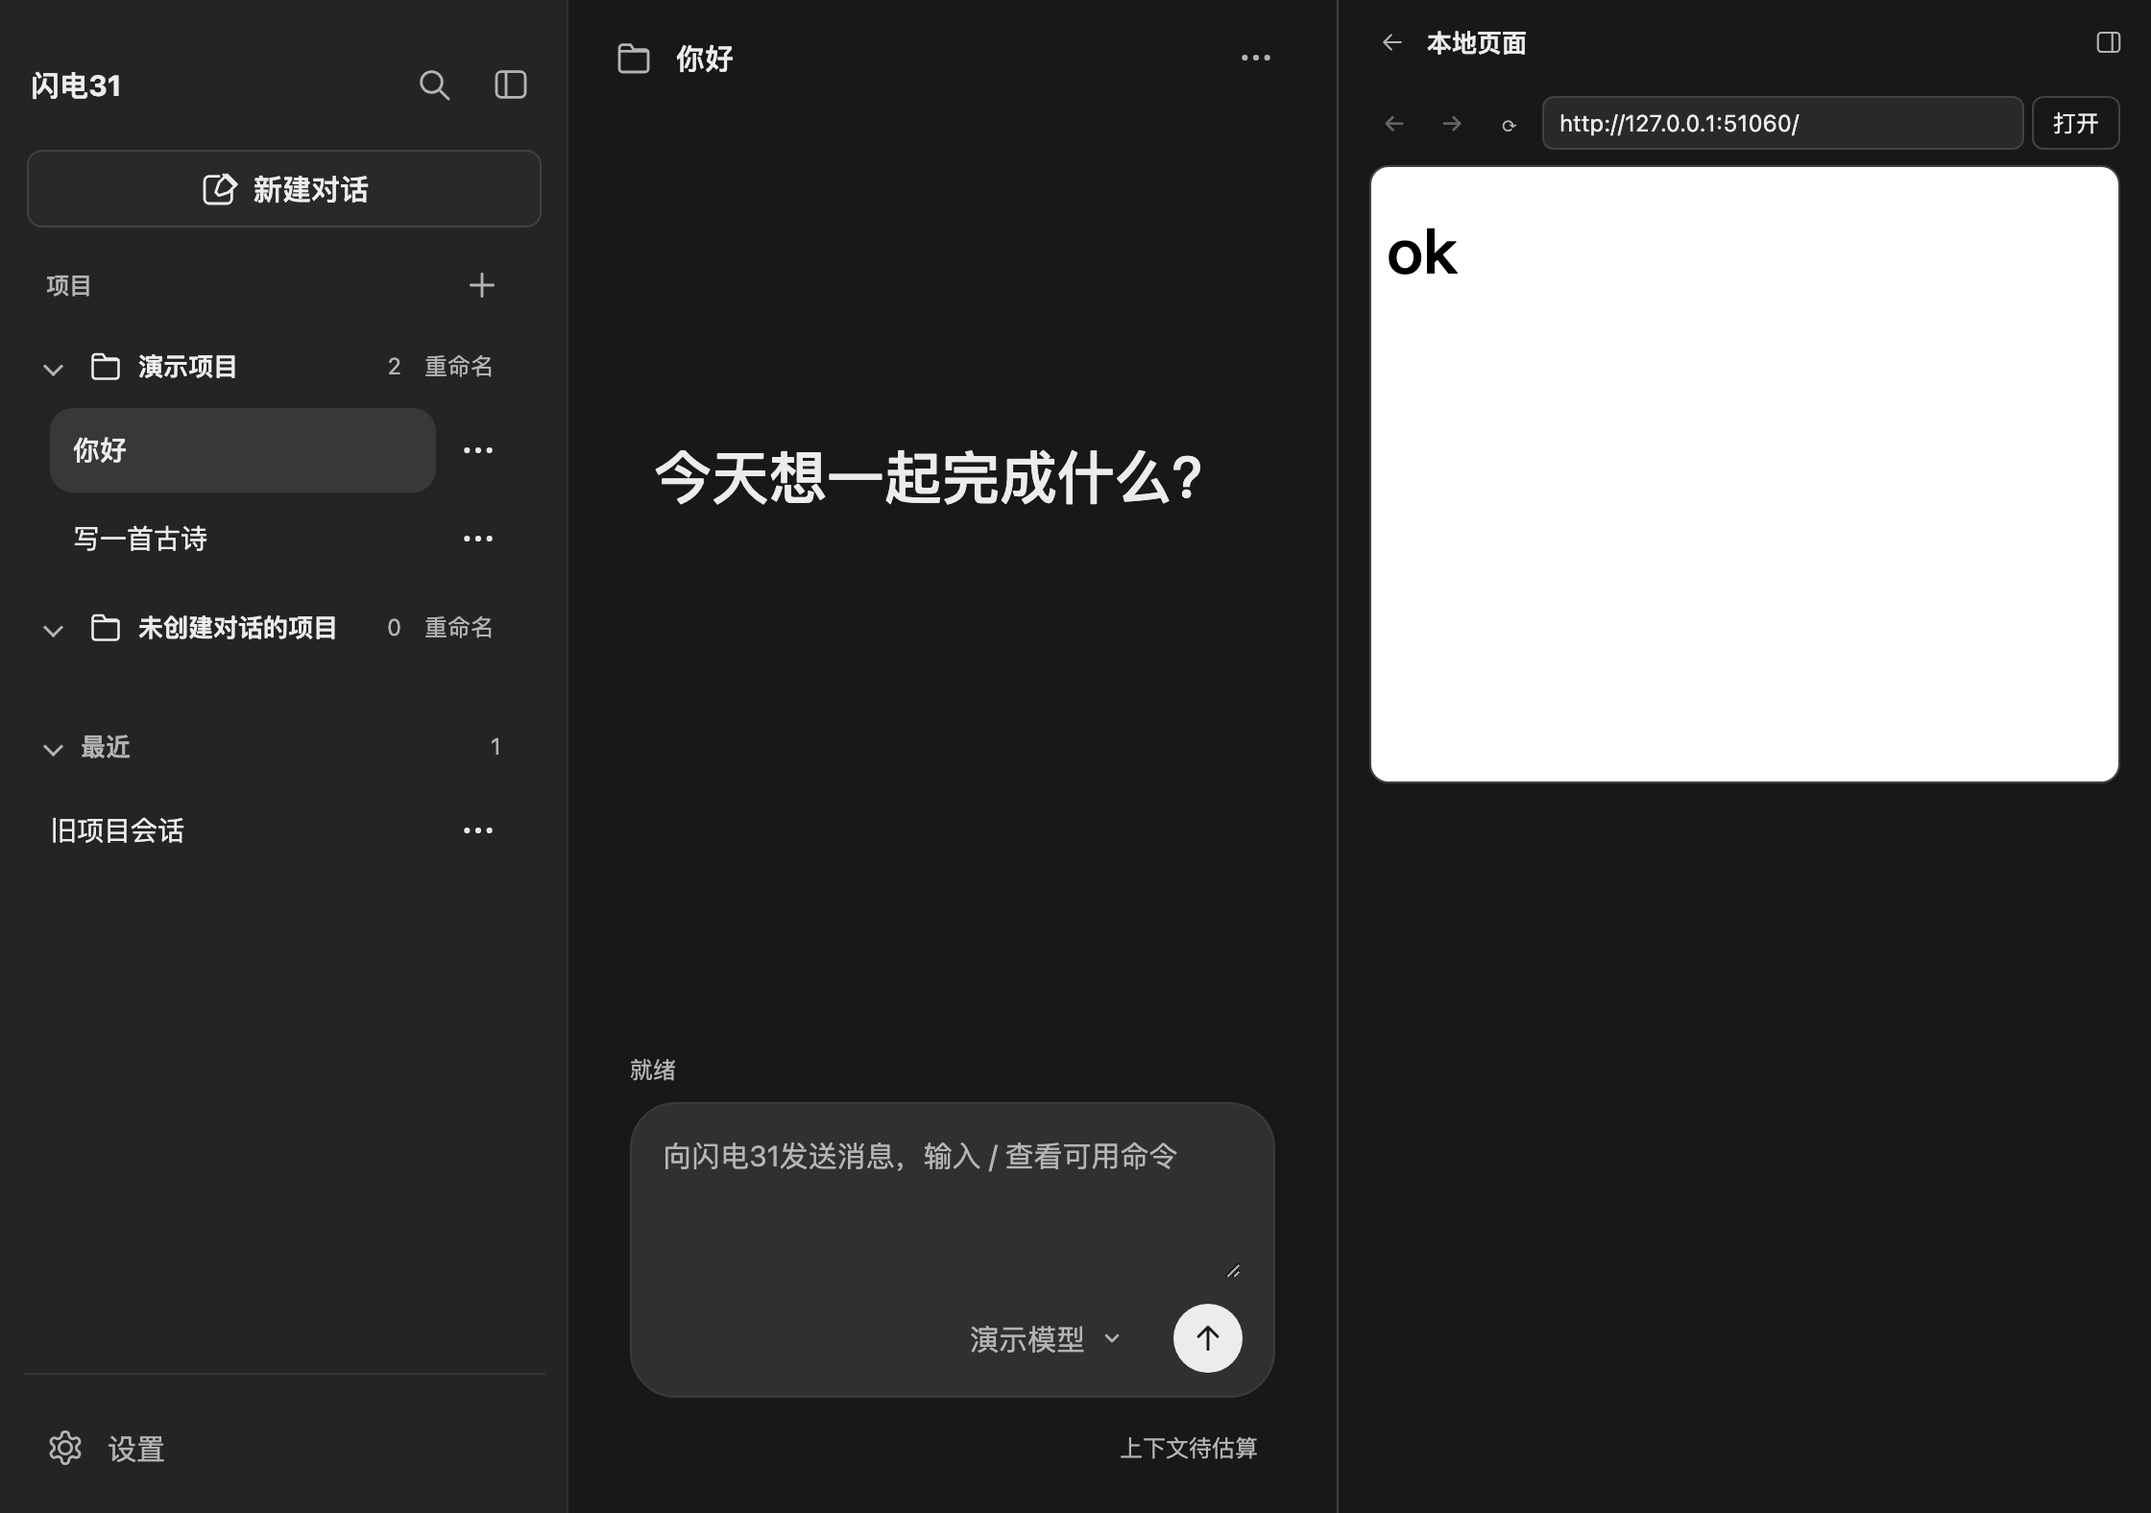
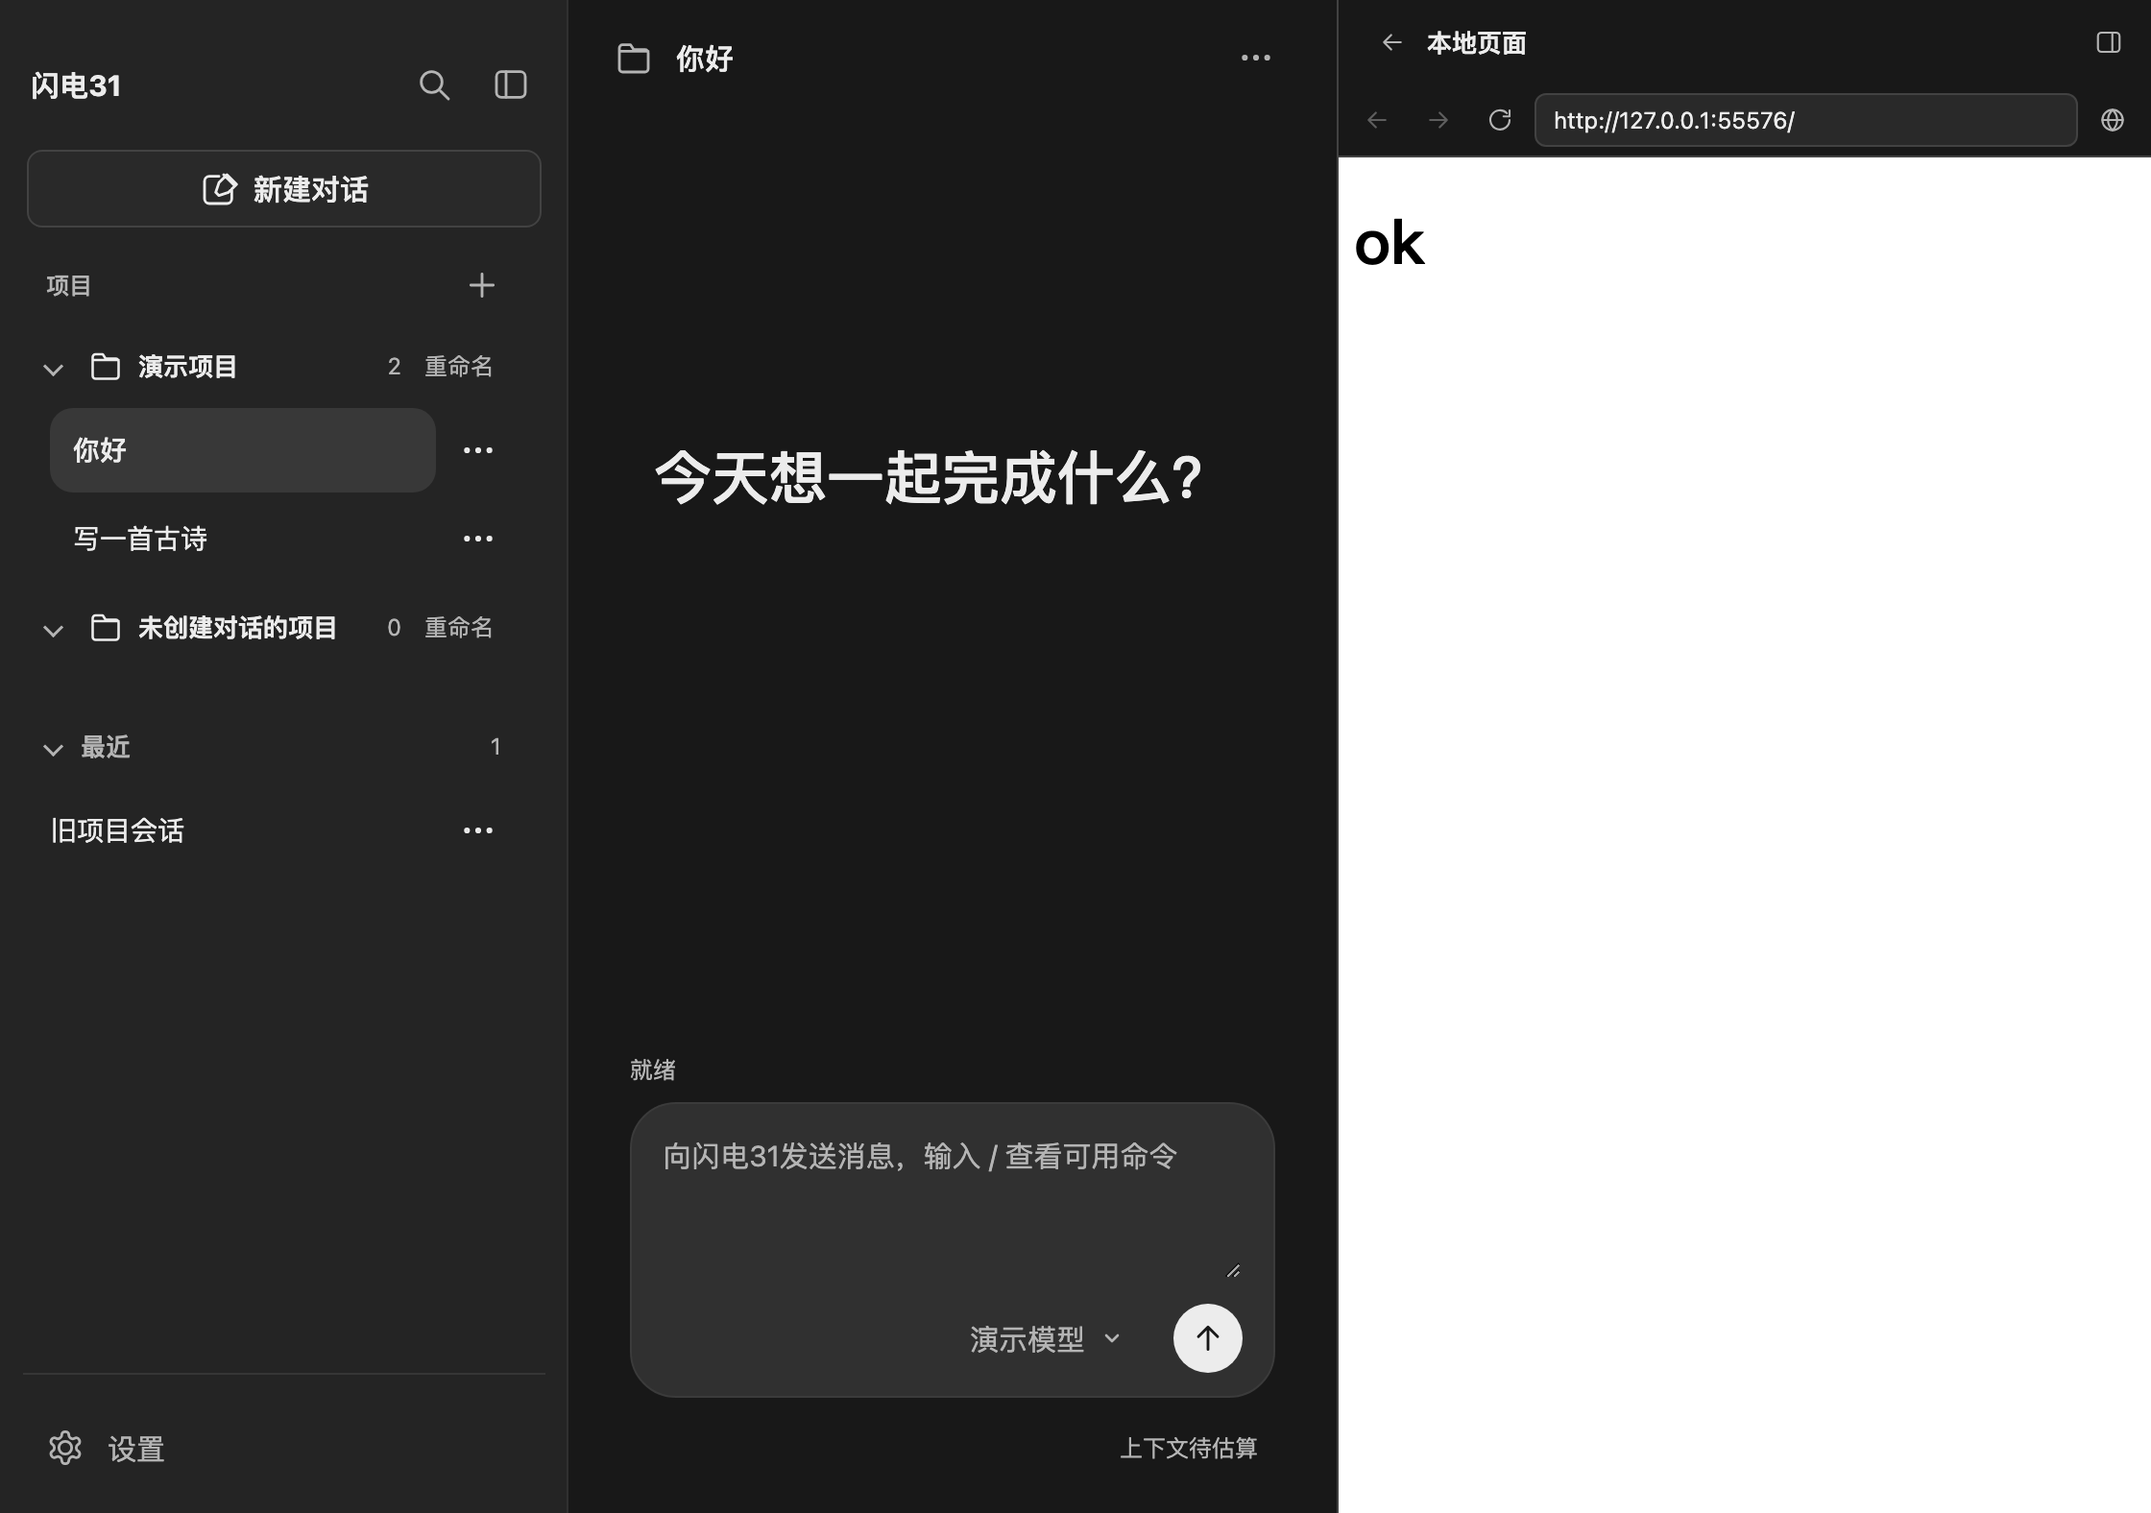
浏览器面板改为贴边布局，补充系统浏览器打开

Changed region(s): [[0.625, 0.0622, 1.0, 1.0]]

diff --git a/src/renderer/components/right-sidebar-panel.js b/src/renderer/components/right-sidebar-panel.js
@@ -796,11 +796,13 @@ export function createRightSidebarPanel({ body, tabs, confirmDialog }) {
 
   function updateBrowserChrome() {
     const reload = body.querySelector(".browser-bar__reload");
-    if (reload) reload.textContent = browserLoading ? "×" : "⟳";
+    if (reload) reload.replaceChildren(icon(browserLoading ? "stop" : "refresh"));
     const back = body.querySelector(".browser-bar__back");
     if (back) back.disabled = !canGo("back");
     const forward = body.querySelector(".browser-bar__forward");
     if (forward) forward.disabled = !canGo("forward");
+    const external = body.querySelector(".browser-bar__external");
+    if (external) external.disabled = browserUrl === "";
   }
 
   function createBrowserView() {
@@ -846,17 +848,16 @@ export function createRightSidebarPanel({ body, tabs, confirmDialog }) {
   function renderBrowser() {
     setNav(browserTitle || "浏览器", () => go("home"));
 
+    // 与 DSH 一致：工具栏 + 页面贴边铺满，不使用内层卡片边框。
     const panel = element("div", { class: "right-panel right-panel--browser" });
-    panel.append(statusLine());
 
     const bar = element("div", { class: "browser-bar" });
     const back = element("button", {
       type: "button",
-      class: "browser-bar__icon browser-bar__back",
+      class: "browser-bar__tool browser-bar__back",
       "aria-label": "后退",
       title: "后退",
-      text: "←",
-    });
+    }, icon("arrow-left"));
     back.addEventListener("click", () => {
       if (!canGo("back")) return;
       try {
@@ -867,11 +868,10 @@ export function createRightSidebarPanel({ body, tabs, confirmDialog }) {
     });
     const forward = element("button", {
       type: "button",
-      class: "browser-bar__icon browser-bar__forward",
+      class: "browser-bar__tool browser-bar__forward",
       "aria-label": "前进",
       title: "前进",
-      text: "→",
-    });
+    }, icon("arrow-left"));
     forward.addEventListener("click", () => {
       if (!canGo("forward")) return;
       try {
@@ -882,11 +882,10 @@ export function createRightSidebarPanel({ body, tabs, confirmDialog }) {
     });
     const reload = element("button", {
       type: "button",
-      class: "browser-bar__icon browser-bar__reload",
+      class: "browser-bar__tool browser-bar__reload",
       "aria-label": "刷新或停止",
       title: "刷新或停止",
-      text: browserLoading ? "×" : "⟳",
-    });
+    }, icon(browserLoading ? "stop" : "refresh"));
     reload.addEventListener("click", () => {
       if (!browserView || !browserView.isConnected) return;
       try {
@@ -896,6 +895,8 @@ export function createRightSidebarPanel({ body, tabs, confirmDialog }) {
         // 尚未完成首次加载时忽略。
       }
     });
+
+    const addressBox = element("div", { class: "browser-bar__address-box" });
     const address = element("input", {
       type: "text",
       class: "browser-bar__address",
@@ -905,7 +906,6 @@ export function createRightSidebarPanel({ body, tabs, confirmDialog }) {
       "aria-label": "浏览器地址",
       value: browserUrl,
     });
-    const open = element("button", { type: "button", class: "browser-bar__go", text: "打开" });
     const submit = () => {
       const url = normalizeBrowserUrl(address.value);
       if (url === null) {
@@ -915,26 +915,53 @@ export function createRightSidebarPanel({ body, tabs, confirmDialog }) {
       }
       navigateBrowser(url);
     };
-    open.addEventListener("click", submit);
+    // 不叫 go：避免遮蔽外层的 go(next) 视图切换函数。
+    const goButton = element("button", {
+      type: "button",
+      class: "browser-bar__go",
+      "aria-label": "前往",
+      title: "前往",
+      text: "前往",
+    });
+    goButton.addEventListener("click", submit);
     address.addEventListener("keydown", (event) => {
       if (event.key !== "Enter") return;
       event.preventDefault();
       submit();
     });
-    bar.append(back, forward, reload, address, open);
+    addressBox.append(address, goButton);
+
+    const external = element("button", {
+      type: "button",
+      class: "browser-bar__tool browser-bar__external",
+      "aria-label": "在系统浏览器中打开",
+      title: "在系统浏览器中打开",
+      disabled: browserUrl === "",
+    }, icon("globe"));
+    external.addEventListener("click", () => {
+      if (browserUrl === "") return;
+      const open = window.agent?.openExternalUrl;
+      if (typeof open !== "function") {
+        setStatusText("页面接口尚未就绪，请稍后重试。", true);
+        return;
+      }
+      Promise.resolve(open(browserUrl)).catch(() => setStatusText("无法打开系统浏览器。", true));
+    });
+
+    bar.append(back, forward, reload, addressBox, external);
     panel.append(bar);
 
     const surface = element("div", { class: "right-panel__browser" });
     if (browserUrl === "") {
       surface.append(element("p", {
-        class: "right-panel__empty",
+        class: "right-panel__browser-start",
         text: "输入网址开始浏览。页面在独立会话中加载，不继承应用权限。",
       }));
     } else {
       browserView = createBrowserView();
       surface.append(browserView);
     }
-    panel.append(surface);
+    panel.append(surface, statusLine());
     body.append(panel);
 
     if (browserUrl === "") address.focus();

diff --git a/src/renderer/styles/right-sidebar-panel.css b/src/renderer/styles/right-sidebar-panel.css
@@ -731,40 +731,68 @@
   font-size: 12px;
 }
 
-/* 侧栏浏览器：地址栏在上，webview 占满剩余高度。 */
+/* 侧栏浏览器：工具栏贴边、页面铺满，不使用内层卡片边框。 */
 .right-panel--browser {
+  height: 100%;
   min-height: 0;
+  padding: 0;
+  background: transparent;
 }
 
 .browser-bar {
+  box-sizing: border-box;
   display: flex;
+  flex: none;
   align-items: center;
   gap: 4px;
-  margin: 4px 0 8px;
+  height: 38px;
+  padding: 5px 6px;
+  border-bottom: 1px solid var(--border);
 }
 
-.browser-bar__icon {
+.browser-bar__tool {
+  display: inline-flex;
   flex: none;
-  width: 26px;
-  height: 26px;
+  align-items: center;
+  justify-content: center;
+  width: 28px;
+  height: 28px;
   padding: 0;
-  border: 1px solid transparent;
+  border: 0;
   border-radius: 6px;
   background: transparent;
   color: var(--muted);
-  font-size: 13px;
-  line-height: 1;
 }
 
-.browser-bar__icon:hover:not(:disabled) {
-  border-color: var(--border);
+.browser-bar__tool:hover:not(:disabled) {
   color: var(--text);
+  background: var(--hover);
+}
+
+.browser-bar__tool:disabled {
+  opacity: 0.45;
+}
+
+.browser-bar__tool .icon {
+  width: 15px;
+  height: 15px;
+}
+
+.browser-bar__forward .icon {
+  transform: rotate(180deg);
+}
+
+.browser-bar__address-box {
+  position: relative;
+  flex: 1;
+  min-width: 0;
 }
 
 .browser-bar__address {
-  flex: 1;
-  min-width: 0;
-  padding: 4px 8px;
+  box-sizing: border-box;
+  width: 100%;
+  height: 28px;
+  padding: 0 40px 0 9px;
   border: 1px solid var(--border);
   border-radius: 6px;
   background: var(--surface);
@@ -772,33 +800,71 @@
   font-size: 12px;
 }
 
+.browser-bar__address:focus {
+  outline: 1px solid var(--focus);
+  outline-offset: -1px;
+}
+
 .browser-bar__go {
-  flex: none;
-  padding: 4px 10px;
-  border-radius: 6px;
+  position: absolute;
+  top: 2px;
+  right: 2px;
+  height: 24px;
+  padding: 0 8px;
+  border: 0;
+  border-radius: 5px;
+  background: transparent;
+  color: var(--muted);
   font-size: 12px;
+  opacity: 0;
+  pointer-events: none;
+}
+
+.browser-bar__address-box:focus-within .browser-bar__go {
+  opacity: 1;
+  pointer-events: auto;
+}
+
+.browser-bar__go:hover {
+  color: var(--text);
+  background: var(--hover);
 }
 
 .right-panel__browser {
   display: flex;
   flex: 1;
-  flex-direction: column;
-  min-height: 320px;
+  min-height: 0;
   overflow: hidden;
-  border: 1px solid var(--border);
-  border-radius: 10px;
-  background: var(--surface);
+  background: transparent;
 }
 
 .right-panel__browser-view {
   flex: 1;
   width: 100%;
-  min-height: 320px;
+  min-height: 0;
   border: 0;
   /* 页面未声明背景时按白底显示，避免暗色主题下黑字落在深色背景上。 */
   background: #fff;
 }
 
-.right-panel__browser .right-panel__empty {
-  padding: 16px;
+.right-panel__browser-start {
+  display: flex;
+  flex: 1;
+  align-items: center;
+  justify-content: center;
+  margin: 0;
+  padding: 24px;
+  color: var(--muted);
+  font-size: 12px;
+  text-align: center;
+}
+
+.right-panel--browser .right-panel__status {
+  flex: none;
+  min-height: 0;
+  margin: 4px 10px;
+}
+
+.right-panel--browser .right-panel__status:empty {
+  display: none;
 }

diff --git a/src/main/ipc/agent-ipc.js b/src/main/ipc/agent-ipc.js
@@ -97,6 +97,14 @@ function registerAgentIpc(
   );
   ipcMain.handle("agent:list-workspace-directory", (_event, dirPath) => listWorkspaceDirectory(dirPath));
 
+  // 浏览器面板的“在系统浏览器中打开”：只接受 http(s)，由主进程调用系统默认浏览器。
+  ipcMain.handle("agent:open-external-url", (_event, url) => {
+    if (typeof url !== "string" || !/^https?:\/\//i.test(url)) {
+      throw new Error("只支持 http(s) 地址。");
+    }
+    return require("electron").shell.openExternal(url);
+  });
+
   // 异常后的状态核对必须等生成结束，读取期间阻止新的发送与会话操作。
   ipcMain.handle("agent:inspect-composer-send", (_event, sessionId) => {
     return runIdleOperation(() => composerDraftService.inspectSend(sessionId));

diff --git a/src/preload/preload.js b/src/preload/preload.js
@@ -124,6 +124,13 @@ contextBridge.exposeInMainWorld("agent", {
     }
     return ipcRenderer.invoke("agent:read-preview-file", filePath);
   },
+  // 只允许 http(s)；实际打开动作与校验在主进程完成。
+  openExternalUrl: (url) => {
+    if (typeof url !== "string" || !/^https?:\/\//i.test(url)) {
+      throw new Error("只支持 http(s) 地址。");
+    }
+    return ipcRenderer.invoke("agent:open-external-url", url);
+  },
   // 目录路径为空表示工作目录根；解析与边界同样在主进程完成。
   listWorkspaceDirectory: (dirPath) => {
     if (dirPath !== undefined && dirPath !== null && typeof dirPath !== "string") {

diff --git a/docs/right-sidebar.md b/docs/right-sidebar.md
@@ -34,10 +34,11 @@
 
 ### 浏览器
 
-- 工作台第四张卡片进入，提供后退、前进、刷新/停止、地址栏与“打开”。
+- 工作台第四张卡片进入。布局与 DSH 的侧栏浏览器一致：38px 工具栏 + 页面贴边铺满，**没有内层卡片边框、圆角或留白**；地址栏在获得焦点时显示“前往”。
+- 工具栏提供后退、前进、刷新/停止、地址栏和“在系统浏览器中打开”。系统浏览器只接受当前 `http(s)` 地址，由主进程调用。
 - 只接受 `http(s)`：裸域名自动补全 `https://`，拒绝 `javascript:`、`file:`、`data:`、`chrome:` 和带账号密码的地址。
 - 页面在 `<webview>` 的独立会话分区 `persist:browser-panel` 中加载，不继承应用 preload；主进程在 `will-attach-webview` 中去掉 preload、强制隔离与沙箱，并拒绝非 `http(s)` 地址；webview 的 `window.open` 一律拒绝，非 `http(s)` 跳转被取消。
-- 地址栏随导航更新，导航标题显示在侧栏标题；加载失败显示错误原因（主动停止不算失败）。
+- 地址栏随导航更新，页面标题显示在侧栏标题；加载失败在页面下方显示错误条（主动停止不算失败）。空状态是居中的开始提示，不画边框。
 - 切换右侧栏视图会销毁 webview，回到浏览器按最后地址重新加载，不保留前进/后退历史。
 - 未声明背景色的页面按白底显示，避免暗色主题下黑字落在深色背景上。
 
@@ -90,7 +91,7 @@
 node --test tests/unit/project-environment.test.js tests/unit/test-data-service.test.js tests/unit/file-preview-service.test.js tests/unit/workspace-tree-service.test.js tests/unit/browser-url.test.js
 ```
 
-侧栏页面检查本轮 68 项，右侧栏新增覆盖：工作台 logo 与两张卡片、环境列表字段、编辑保存与后端同步、测试数据分类列表、删除文件确认、删除项目环境、添加项目环境，以及原有的宽度/全屏/左栏让位；本轮新增浏览器空状态、拒绝非 http(s) 地址、加载本地页面并同步标题与地址；文件树列出目录根、展开下一层、点击文件进入预览、预览返回保留展开；以及本地路径打开文件预览、Markdown 渲染、切换会话关闭旧预览、预览失败显示主进程错误。检查使用临时模拟接口，不读取真实配置、会话或测试数据，不请求模型。
+侧栏页面检查本轮 70 项，右侧栏新增覆盖：工作台 logo 与两张卡片、环境列表字段、编辑保存与后端同步、测试数据分类列表、删除文件确认、删除项目环境、添加项目环境，以及原有的宽度/全屏/左栏让位；本轮新增浏览器空状态、拒绝非 http(s) 地址、加载本地页面并同步标题与地址、无内层卡片边框与 38px 工具栏、系统浏览器打开收到当前地址；文件树列出目录根、展开下一层、点击文件进入预览、预览返回保留展开；以及本地路径打开文件预览、Markdown 渲染、切换会话关闭旧预览、预览失败显示主进程错误。检查使用临时模拟接口，不读取真实配置、会话或测试数据，不请求模型。
 
 单元测试覆盖：环境列表不回传密码、缺省密码保持、显式空密码清除、非法字段拒绝且不改写配置、删除只移除登记；测试数据相对路径、隐藏文件/符号链接跳过、删除单文件、目录穿越/绝对路径/目录/符号链接/缺失文件拒绝；文件预览的路径解码、工作目录边界、符号链接逃逸、凭据文件、二进制、超大文件与缺失文件拒绝；文件树的目录优先排序、跳过工程目录与凭据、越界/文件/缺失目录拒绝、500 项截断；浏览器地址的协议白名单、裸域名补全与带凭据地址拒绝。
 
